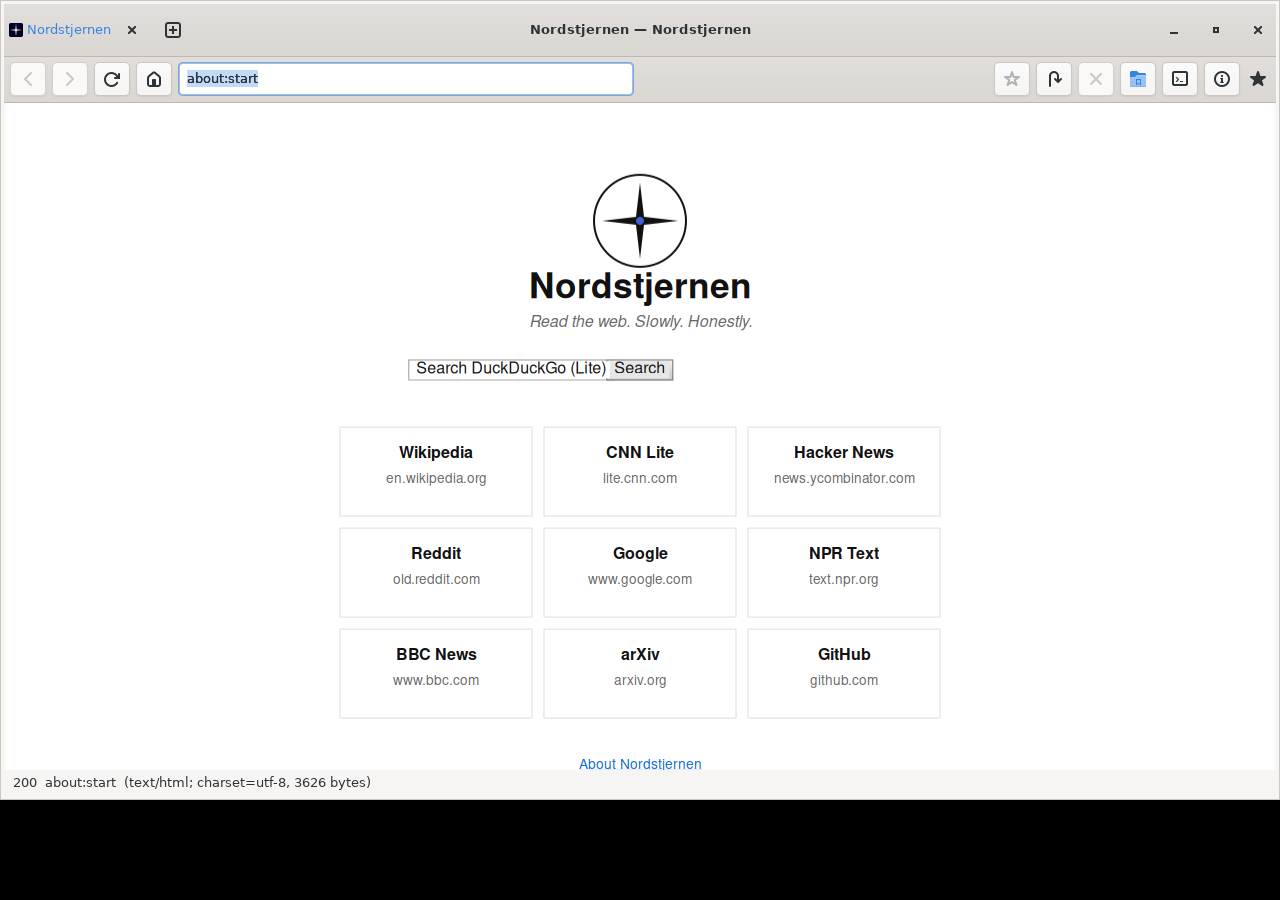
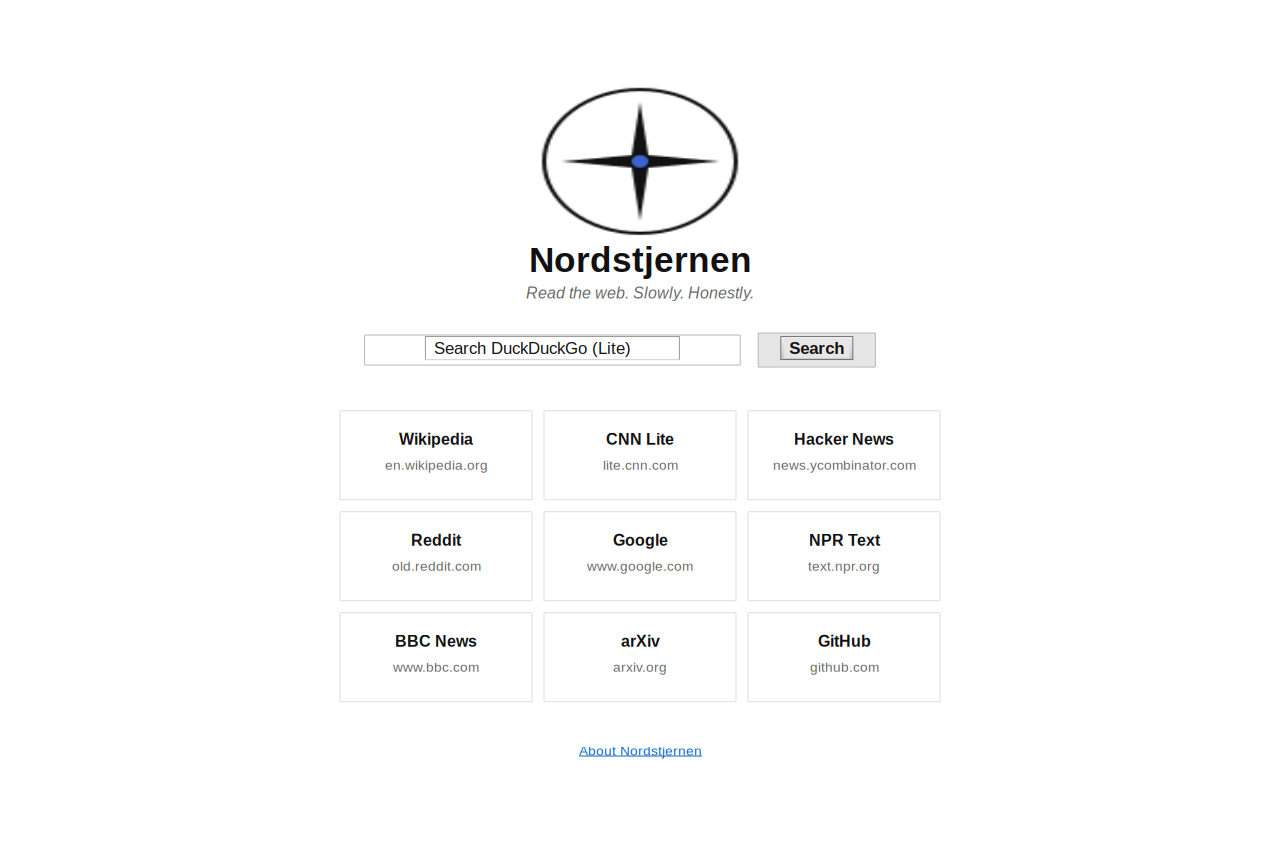
layout: real flex items for inline children; flex:1 sets basis 0
Children of a flex container were being lumped into a single inline run,
so a form like <input> + <button> ended up as one flex item with no gap
and no flex:1 growth. Build a per-child flex item box instead — block
children stay block, each inline-level child gets wrapped in an anonymous
block flex item that owns the child's style. Whitespace-only text nodes
between flex items are dropped per spec.

Also fix the 'flex: <number>' shorthand: when only flex-grow is given,
flex-basis is 0, not the implicit auto we were leaving it at. This makes
flex:1 actually behave like flex:1 1 0.

about:start: drop the input/button CSS chrome (the inline paint already
renders both), bump the gap to 18px, size the input to 32 chars, and
center the form contents. New screenshot captured at 1280px.

README: new 'Why another browser?' section on engine diversity and the
Norwegian angle, plus a full dependency table (vendored subprojects,
required and optional system packages, build-time tools).

diff --git a/src/layout.c b/src/layout.c
@@ -1374,6 +1374,8 @@ build_block(const nd_node *n, GHashTable *styles)
         if (gen) box_append_child(block, gen);
     }
 
+    gboolean is_flex = style_is_flex_container(s);
+
     const nd_node *c = n->first_child;
     while (c) {
         if (details_collapsed) {
@@ -1382,6 +1384,60 @@ build_block(const nd_node *n, GHashTable *styles)
                 c = c->next_sibling;
                 continue;
             }
+        }
+        if (is_flex) {
+            if (c->kind == ND_NODE_TEXT) {
+                gboolean ws_only = TRUE;
+                if (c->text) {
+                    for (const char *p = c->text; *p; p++)
+                        if (!g_ascii_isspace((unsigned char)*p)) { ws_only = FALSE; break; }
+                }
+                if (ws_only) { c = c->next_sibling; continue; }
+                nd_box *item = box_new(ND_BOX_BLOCK);
+                item->style = s;
+                nd_box *run = build_inline_run(c, c->next_sibling, styles);
+                if (run && run->text && run->text[0]) {
+                    box_append_child(item, run);
+                    box_append_child(block, item);
+                } else {
+                    if (run) nd_box_free(run);
+                    nd_box_free(item);
+                }
+                c = c->next_sibling;
+                continue;
+            }
+            if (c->kind != ND_NODE_ELEMENT) { c = c->next_sibling; continue; }
+            const nd_style *cs = g_hash_table_lookup(styles, c);
+            if (cs && style_is_none(cs)) { c = c->next_sibling; continue; }
+            if (cs && style_is_absolute_or_fixed(cs)) {
+                nd_box *child = build_block(c, styles);
+                if (child) box_append_child(block, child);
+                c = c->next_sibling;
+                continue;
+            }
+            if (style_is_block(cs) ||
+                (c->name && (strcmp(c->name, "img") == 0 ||
+                             strcmp(c->name, "picture") == 0 ||
+                             strcmp(c->name, "video") == 0 ||
+                             strcmp(c->name, "table") == 0))) {
+                nd_box *child = build_block(c, styles);
+                if (child) box_append_child(block, child);
+                c = c->next_sibling;
+                continue;
+            }
+            nd_box *item = box_new(ND_BOX_BLOCK);
+            item->dom = c;
+            item->style = cs;
+            nd_box *run = build_inline_run(c, c->next_sibling, styles);
+            if (run && run->text && run->text[0]) {
+                box_append_child(item, run);
+                box_append_child(block, item);
+            } else {
+                if (run) nd_box_free(run);
+                nd_box_free(item);
+            }
+            c = c->next_sibling;
+            continue;
         }
         if (is_inline_dom(c, styles)) {
             const nd_node *start = c;

diff --git a/src/net.c b/src/net.c
@@ -1204,16 +1204,10 @@ static const char k_about_start_body[] =
     " letter-spacing: 0.5px; color:#111111; }\n"
     ".tagline { color:#666666; font-style: italic; margin: 0 0 1.6em 0;"
     " font-size: 1.0em; }\n"
-    "form.search { margin: 0 auto 2.6em auto; display:flex; gap: 8px;"
-    " max-width: 560px; }\n"
-    "form.search input[type=text] { flex:1; padding: 12px 14px; font-size:1em;"
-    " background:#ffffff; color:#111111;"
-    " border:1px solid #cccccc; border-radius:6px; outline:none; }\n"
-    "form.search input[type=text]:focus { border-color:#3a63d0; }\n"
-    "form.search button { padding: 12px 18px; font-size:1em;"
-    " background:#3a63d0; color:#ffffff; border:0;"
-    " border-radius:6px; cursor:pointer; }\n"
-    "form.search button:hover { background:#4a73e0; }\n"
+    "form.search { margin: 0 auto 2.6em auto; display:flex; gap: 18px;"
+    " max-width: 560px; align-items: center; justify-content: center;"
+    " font-size: 1.05em; }\n"
+    "form.search button { font-weight: 600; }\n"
     ".tiles { display:grid; grid-template-columns: repeat(3, 1fr);"
     " gap: 12px; margin: 0 auto; max-width: 600px; }\n"
     ".tile { display:block; padding: 18px 10px; background:#ffffff;"
@@ -1242,7 +1236,7 @@ static const char k_about_start_body[] =
     "<div class=\"tagline\">Read the web. Slowly. Honestly.</div>"
     "<form class=\"search\" action=\"https://html.duckduckgo.com/html/\""
     " method=\"get\">"
-    "<input type=\"text\" name=\"q\" autofocus"
+    "<input type=\"text\" name=\"q\" size=\"32\" autofocus"
     " placeholder=\"Search DuckDuckGo (Lite)\">"
     "<button type=\"submit\">Search</button>"
     "</form>"

diff --git a/src/css.c b/src/css.c
@@ -1963,6 +1963,10 @@ parse_declaration_block(const char **pp, const char *end, GArray *decls_out)
                     numerics++;
                 }
             }
+            if (numerics >= 1 && !basis_set) {
+                basis = g_strdup("0");
+                basis_set = TRUE;
+            }
             char grow_buf[32];
             g_snprintf(grow_buf, sizeof grow_buf, "%g", grow);
             char shrink_buf[32];

diff --git a/README.md b/README.md
@@ -8,6 +8,48 @@ Nordstjernen is a web browser written from scratch in C.
 
 ![Nordstjernen on the about:start home page](docs/screenshot.png)
 
+## Why another browser?
+
+Almost every browser on the web today renders pages with one of three
+engines — Blink (Chrome, Edge, Opera, Brave, Vivaldi, Arc, and every
+Electron app), WebKit (Safari, and on iOS *everything*), or Gecko
+(Firefox and its handful of forks). Blink and WebKit share a common
+ancestor; Gecko is the last fully independent engine in serious
+production. When one of those three vendors decides a web API ships or
+doesn't, that's the web — there is no second opinion. The standards
+process is downstream of whatever Google ships in Chrome.
+
+A monoculture this complete is bad for the web in the same way a
+monoculture is bad for a forest: a single bug, a single business
+decision, a single ad-tech mandate, a single anti-feature, propagates
+to every user at once. The web's resilience depends on independent
+implementations actually existing — implementations that can disagree,
+say no, and refuse to render the bloat. That is what Nordstjernen is.
+
+Compared to **Chrome**, Nordstjernen is a few thousand times smaller,
+ships no telemetry, no Safe Browsing pinger, no ad-tech extension
+points, no DRM module, no JIT, no GPU compositor, no signed-in account,
+no "experiments". You can read the entire source over a weekend.
+Compared to **Firefox**, Nordstjernen is independent of Mozilla's
+funding from Google search-default payments, doesn't ship Pocket /
+sponsored tiles / studies / Normandy, and is small enough to be
+audited end-to-end by one human. Neither Chrome nor Firefox is
+something you can host yourself, fork in a single Saturday, or strip
+down to the minimum you actually need.
+
+Nordstjernen is also built **in Norway**, by a Norwegian developer. We
+think a free internet needs browsers that aren't all designed inside
+the same square mile of California. Norway has its own legal traditions
+around privacy (the *personvernforordningen* / GDPR implementation),
+its own consumer-protection authority that routinely pushes back on
+Big Tech, and a long history of building open, public-good
+infrastructure — from the postal service to NRK to Altinn. A browser
+made here defaults to those values: privacy on, telemetry off,
+advertising-free, the user's data stays on the user's machine. The
+North Star the name refers to is *the* fixed point in the Norwegian
+night sky; the browser tries to be the same kind of thing on the
+web — small, steady, and pointed in one direction.
+
 ## Why Nordstjernen?
 
 - **Small enough to audit.** The entire browser is ~30 kLOC of C —
@@ -142,6 +184,58 @@ Nordstjernen is a web browser written from scratch in C.
   sandbox (only useful when debugging it).
 
 Developed by Andreas Røsdal, with extensive use of AI tooling.
+
+## Dependencies
+
+Nordstjernen is built on a small, hand-picked set of libraries. Each
+one is either a vendored subproject (built from source as part of the
+meson tree, no system package needed) or a required system package
+fetched via `pkg-config`. There are no optional plug-in points and no
+runtime downloads.
+
+### Vendored (built into the binary, no system install)
+
+| Library | Version | Role |
+| --- | --- | --- |
+| [lexbor](https://github.com/lexbor/lexbor) | 3.0.0 | HTML5 parser, CSS selector matcher, WHATWG URL parser |
+| [quickjs-ng](https://github.com/quickjs-ng/quickjs) | v0.14.0 | JavaScript engine (no JIT) |
+| [Wuffs](https://github.com/google/wuffs) | v0.4 | Memory-safe PNG / GIF / BMP / JPEG decoder |
+
+### Required system packages (Linux)
+
+| Package (Debian/Ubuntu) | Role |
+| --- | --- |
+| `libgtk-4-dev` | Window, widget, and input layer |
+| `libcurl4-openssl-dev` | HTTP / HTTPS networking, TLS |
+| `libuchardet-dev` | Charset detection for response bodies |
+| `librsvg2-dev` | SVG image decoding |
+| `libseccomp-dev` | Default-deny syscall sandbox (Linux only) |
+| `libcairo2-dev`, `libpango1.0-dev` | 2D drawing and text shaping (pulled in by GTK) |
+| `libgdk-pixbuf-2.0-dev` | Fallback image decoding (TIFF / ICO / WebP) |
+| `meson`, `ninja-build`, `cmake`, `pkg-config` | Build system |
+| `build-essential` (gcc / clang) | C compiler |
+
+### Optional system packages
+
+| Package | Role |
+| --- | --- |
+| `libvpx-dev` | `<video>` VP9 decoding for in-page WebM playback |
+| `libpoppler-glib-dev` | Inline PDF rendering (`application/pdf`) |
+| `libavif-dev` | AVIF image decoding |
+| `ccache` | Compiler cache for faster rebuilds |
+| `lld` | Faster linker for development builds |
+
+### Build-time tools
+
+| Tool | Used for |
+| --- | --- |
+| Python 3 | Meson runs Python during configuration |
+| CMake | Configuring the lexbor subproject |
+| pkg-config | Locating system libraries |
+
+See `CLAUDE.md` for the per-distro one-liner install commands
+(Debian / Ubuntu, Fedora / RHEL, openSUSE) and `docs/Windows.md`
+/ `docs/macOS.md` for the MSYS2 and Homebrew equivalents.
 
 ## License
 
